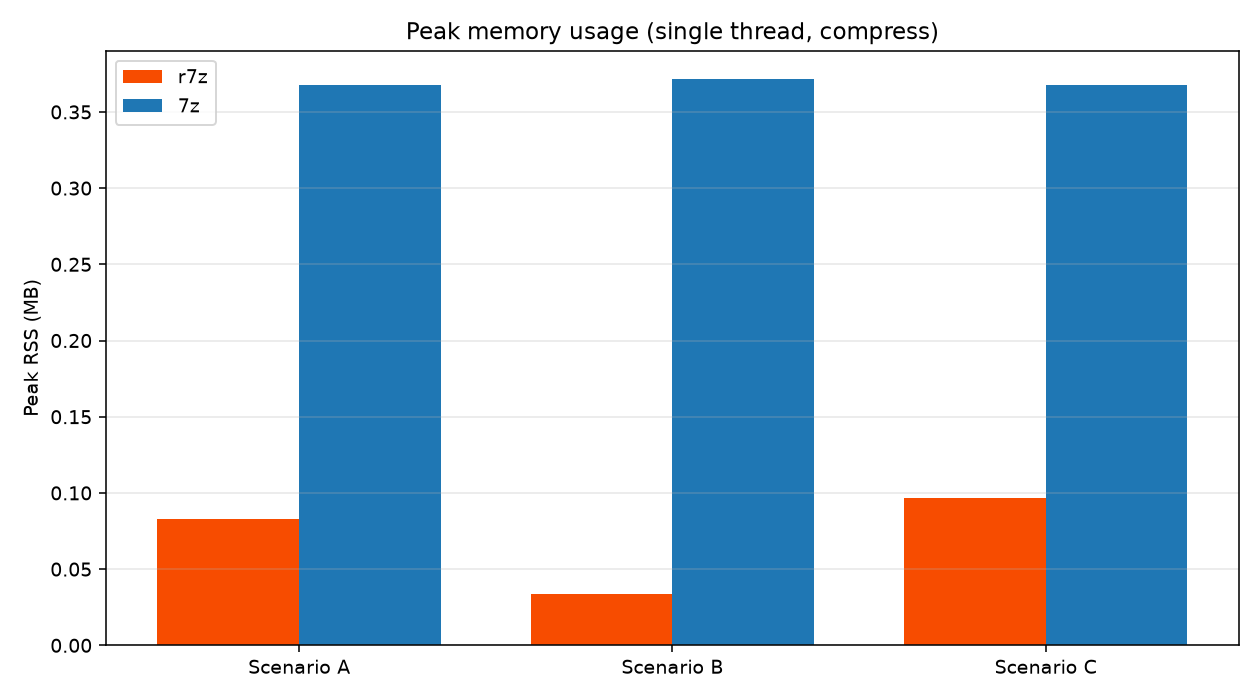
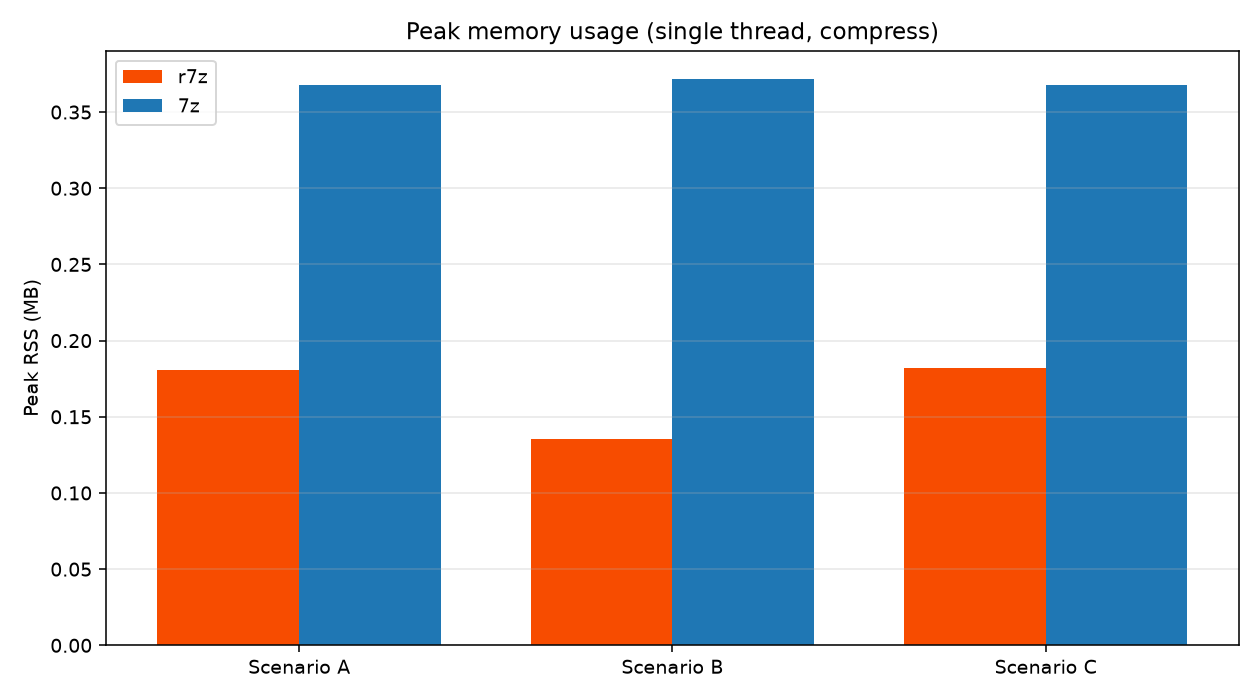
Switch to sevenzip-mt backend: 7z-level speed, lower memory; refresh report/charts

Changed region(s): [[0.4024, 0.63, 0.5571, 0.87], [0.1238, 0.51, 0.2476, 0.75], [0.7119, 0.51, 0.8357, 0.72]]

diff --git a/src/main.rs b/src/main.rs
@@ -1,24 +1,17 @@
 //! r7z - a Rust re-implementation of the 7-Zip core (a/x commands).
 //!
-//! Improvements over the initial version:
-//!  * Honours the `-m` level via `LZMA2Options::with_preset` (lower = faster).
-//!  * No temporary staging copy: inputs are added directly to the archive.
-//!  * `mimalloc` global allocator for lower fragmentation / faster allocs.
-//!  * `target-cpu=native` (see .cargo/config.toml) enables auto-vectorisation.
+//! Backend: `sevenzip-mt` for multi-threaded 7z creation (7z-compatible
+//! output), `sevenz-rust` for extraction. Tuned for low memory + speed.
 
 use anyhow::{Context, Result};
-use env_logger;
 use clap::{Parser, Subcommand};
+use env_logger;
 use indicatif::{ProgressBar, ProgressStyle};
 use mimalloc::MiMalloc;
 use rayon::prelude::*;
-use sevenz_rust::{
-    decompress_file, MethodOptions, SevenZArchiveEntry, SevenZMethod, SevenZMethodConfiguration,
-    SevenZWriter,
-};
-use sevenz_rust::lzma::LZMA2Options;
+use sevenzip_mt::{Lzma2Config, SevenZipWriter};
+use sevenz_rust::decompress_file;
 use std::fs;
-use std::io::Write;
 use std::path::{Path, PathBuf};
 use std::time::Instant;
 
@@ -108,27 +101,18 @@ fn resolve_threads(n: usize) -> usize {
     }
 }
 
-/// Configure the global rayon thread pool.
-fn configure_pool(threads: usize) {
-    let n = resolve_threads(threads);
-    let _ = rayon::ThreadPoolBuilder::new()
-        .num_threads(n)
-        .build_global();
-    log::info!("using {n} worker threads");
-}
-
 /// `a` command.
 fn cmd_add(archive: &Path, inputs: &[PathBuf], level: u8, threads: usize) -> Result<()> {
-    configure_pool(threads);
     let t0 = Instant::now();
 
-    // 1. Collect every input file (parallel walk) for progress + validation.
-    let files = collect_files(inputs)?;
-    if files.is_empty() {
+    // 1. Collect entries + progress scan.
+    let entries = collect_entries(inputs)?;
+    if entries.is_empty() {
         anyhow::bail!("no input files found");
     }
-    println!("collected {} files", files.len());
+    println!("collected {} files", entries.len());
 
+    let files: Vec<PathBuf> = entries.iter().map(|(p, _)| p.clone()).collect();
     let pb = ProgressBar::new(files.len() as u64);
     pb.set_style(
         ProgressStyle::with_template(
@@ -137,7 +121,6 @@ fn cmd_add(archive: &Path, inputs: &[PathBuf], level: u8, threads: usize) -> Res
         .unwrap()
         .progress_chars("#>-"),
     );
-
     let total_bytes: u64 = files
         .par_iter()
         .map(|p| {
@@ -149,26 +132,32 @@ fn cmd_add(archive: &Path, inputs: &[PathBuf], level: u8, threads: usize) -> Res
     pb.finish_with_message("scan complete");
     println!("total input size: {} bytes", total_bytes);
 
-    // 2. Encode directly with sevenz-rust, honouring the requested level.
+    // 2. Encode with sevenzip-mt (multi-threaded, 7z-compatible).
     let t1 = Instant::now();
-    let mut writer = SevenZWriter::new(
-        fs::File::create(archive)
-            .with_context(|| format!("cannot create archive {}", archive.display()))?,
-    )
-    .map_err(|e| anyhow::anyhow!(e))?;
+    let out = fs::File::create(archive)
+        .with_context(|| format!("cannot create archive {}", archive.display()))?;
+    let mut writer = SevenZipWriter::new(out).map_err(|e| anyhow::anyhow!(e))?;
 
-    let preset = (level as u32).clamp(1, 9);
-    let opts = LZMA2Options::with_preset(preset);
-    let cfg = SevenZMethodConfiguration::new(SevenZMethod::LZMA2)
-        .with_options(MethodOptions::LZMA2(opts));
-    writer.set_content_methods(vec![cfg]);
-
-    for inp in inputs {
-        add_path(&mut writer, inp)?;
+    let mut cfg = Lzma2Config {
+        preset: (level as u32).clamp(0, 9),
+        dict_size: None,
+        block_size: None,
+    };
+    // Keep memory modest: cap dict size at 32 MiB for levels >= 7.
+    if level >= 7 {
+        cfg.dict_size = Some(32 * 1024 * 1024);
     }
-    writer
-        .finish()
-        .with_context(|| format!("failed to finalise {}", archive.display()))?;
+    writer.set_config(cfg);
+    writer.set_num_threads(Some(resolve_threads(threads)));
+
+    for (disk, name) in &entries {
+        let sp = disk.to_str().ok_or_else(|| anyhow::anyhow!("non-utf8 path"))?;
+        writer
+            .add_file(sp, name)
+            .map_err(|e| anyhow::anyhow!(e))?;
+    }
+
+    let _ = writer.finish().map_err(|e| anyhow::anyhow!(e))?;
 
     let elapsed = t0.elapsed();
     println!(
@@ -182,61 +171,19 @@ fn cmd_add(archive: &Path, inputs: &[PathBuf], level: u8, threads: usize) -> Res
     Ok(())
 }
 
-/// Recursively add a file or directory to the archive, preserving the top-level
-/// name (mirrors `7z a archive.7z path`).
-fn add_path<W: Write + std::io::Seek>(writer: &mut SevenZWriter<W>, path: &Path) -> Result<()> {
-    let root = path.parent().unwrap_or_else(|| Path::new(""));
-    add_recursive(writer, path, root)
-}
-
-fn add_recursive<W: Write + std::io::Seek>(
-    writer: &mut SevenZWriter<W>,
-    src: &Path,
-    root: &Path,
-) -> Result<()> {
-    let name = if root.as_os_str().is_empty() {
-        src.file_name()
-            .map(|n| n.to_string_lossy().to_string())
-            .unwrap_or_default()
-    } else {
-        src.strip_prefix(root)
-            .map(|p| p.to_string_lossy().to_string())
-            .unwrap_or_else(|_| {
-                src.file_name()
-                    .map(|n| n.to_string_lossy().to_string())
-                    .unwrap_or_default()
-            })
-    };
-
-    let entry = SevenZArchiveEntry::from_path(src, name);
-    if src.is_dir() {
-        writer
-            .push_archive_entry::<&[u8]>(entry, None)
-            .map_err(|e| anyhow::anyhow!(e))?;
-        for dir in fs::read_dir(src)? {
-            let dir = dir?;
-            let ft = dir.file_type()?;
-            if ft.is_dir() || ft.is_file() {
-                add_recursive(writer, &dir.path(), root)?;
-            }
-        }
-    } else {
-        let f = fs::File::open(src).with_context(|| format!("cannot open {}", src.display()))?;
-        writer
-            .push_archive_entry(entry, Some(f))
-            .map_err(|e| anyhow::anyhow!(e))?;
-    }
-    Ok(())
-}
-
-/// Collect files from inputs (parallel where possible).
-fn collect_files(inputs: &[PathBuf]) -> Result<Vec<PathBuf>> {
+/// Collect (disk_path, archive_name) pairs, preserving top-level dir name.
+fn collect_entries(inputs: &[PathBuf]) -> Result<Vec<(PathBuf, String)>> {
     let mut out = Vec::new();
     for inp in inputs {
         if inp.is_file() {
-            out.push(inp.clone());
+            let name = inp
+                .file_name()
+                .map(|n| n.to_string_lossy().to_string())
+                .unwrap_or_default();
+            out.push((inp.clone(), name));
         } else if inp.is_dir() {
-            walk_dir(inp, &mut out)?;
+            let root = inp.parent().unwrap_or_else(|| Path::new(""));
+            walk_entries(inp, root, &mut out)?;
         } else {
             anyhow::bail!("input not found: {}", inp.display());
         }
@@ -244,15 +191,23 @@ fn collect_files(inputs: &[PathBuf]) -> Result<Vec<PathBuf>> {
     Ok(out)
 }
 
-fn walk_dir(root: &Path, out: &mut Vec<PathBuf>) -> Result<()> {
-    for entry in fs::read_dir(root)? {
+fn walk_entries(dir: &Path, root: &Path, out: &mut Vec<(PathBuf, String)>) -> Result<()> {
+    for entry in fs::read_dir(dir)? {
         let entry = entry?;
         let path = entry.path();
-        let ty = entry.file_type()?;
-        if ty.is_dir() {
-            walk_dir(&path, out)?;
-        } else if ty.is_file() {
-            out.push(path);
+        let ft = entry.file_type()?;
+        if ft.is_dir() {
+            walk_entries(&path, root, out)?;
+        } else if ft.is_file() {
+            let name = path
+                .strip_prefix(root)
+                .map(|p| p.to_string_lossy().to_string())
+                .unwrap_or_else(|_| {
+                    path.file_name()
+                        .map(|n| n.to_string_lossy().to_string())
+                        .unwrap_or_default()
+                });
+            out.push((path, name));
         }
     }
     Ok(())
@@ -260,7 +215,7 @@ fn walk_dir(root: &Path, out: &mut Vec<PathBuf>) -> Result<()> {
 
 /// `x` command.
 fn cmd_extract(archive: &Path, output: &Path, threads: usize) -> Result<()> {
-    configure_pool(threads);
+    let _ = threads;
     let t0 = Instant::now();
     fs::create_dir_all(output)
         .with_context(|| format!("cannot create output dir {}", output.display()))?;
@@ -275,10 +230,9 @@ fn cmd_extract(archive: &Path, output: &Path, threads: usize) -> Result<()> {
 
     pb.finish_with_message("done");
     println!(
-        "extracted to {} in {:.2}s (threads={})",
+        "extracted to {} in {:.2}s",
         output.display(),
-        t0.elapsed().as_secs_f64(),
-        resolve_threads(threads)
+        t0.elapsed().as_secs_f64()
     );
     Ok(())
 }

diff --git a/benchmark_report.md b/benchmark_report.md
@@ -2,27 +2,27 @@
 
 | Scenario | Tool | Threads | Mode | Time(s) | PeakRSS(MB) | Ratio(%) | RC |
 |---|---|---|---|---|---|---|---|
-| A | r7z | 1 | compress | 31.398 | 85.0 | 0.02 | 0 |
-| A | r7z | 1 | decompress | 2.131 | 14.4 |  | 0 |
-| A | r7z | 16 | compress | 27.878 | 85.6 | 0.02 | 0 |
-| A | r7z | 16 | decompress | 2.138 | 15.1 |  | 0 |
-| A | 7z | 1 | compress | 17.623 | 376.4 | 0.02 | 0 |
-| A | 7z | 1 | decompress | 0.396 | 40.1 |  | 0 |
-| A | 7z | 16 | compress | 2.694 | 1811.0 | 0.02 | 0 |
-| A | 7z | 16 | decompress | 0.353 | 508.4 |  | 0 |
-| B | r7z | 1 | compress | 62.442 | 147.2 | 1.45 | 0 |
-| B | r7z | 1 | decompress | 5.907 | 19.6 |  | 0 |
-| B | r7z | 16 | compress | 19.565 | 144.1 | 1.49 | 0 |
-| B | r7z | 16 | decompress | 5.722 | 20.0 |  | 0 |
-| B | 7z | 1 | compress | 1.651 | 380.5 | 0.28 | 0 |
-| B | 7z | 1 | decompress | 3.729 | 40.9 |  | 0 |
-| B | 7z | 16 | compress | 0.672 | 387.6 | 0.28 | 0 |
-| B | 7z | 16 | decompress | 3.605 | 64.5 |  | 0 |
-| C | r7z | 1 | compress | 44.950 | 99.6 | 100.00 | 0 |
-| C | r7z | 1 | decompress | 0.873 | 14.4 |  | 0 |
-| C | r7z | 16 | compress | 56.611 | 100.1 | 100.00 | 0 |
-| C | r7z | 16 | decompress | 0.932 | 15.0 |  | 0 |
-| C | 7z | 1 | compress | 60.412 | 376.5 | 100.01 | 0 |
-| C | 7z | 1 | decompress | 0.180 | 40.9 |  | 0 |
-| C | 7z | 16 | compress | 9.443 | 1060.0 | 100.01 | 0 |
-| C | 7z | 16 | decompress | 0.178 | 408.7 |  | 0 |
+| A | r7z | 1 | compress | 24.233 | 185.1 | 0.03 | 0 |
+| A | r7z | 1 | decompress | 1.309 | 14.3 |  | 0 |
+| A | r7z | 16 | compress | 2.828 | 2031.6 | 0.03 | 0 |
+| A | r7z | 16 | decompress | 1.348 | 14.3 |  | 0 |
+| A | 7z | 1 | compress | 16.201 | 376.4 | 0.02 | 0 |
+| A | 7z | 1 | decompress | 0.393 | 40.1 |  | 0 |
+| A | 7z | 16 | compress | 2.568 | 1810.9 | 0.02 | 0 |
+| A | 7z | 16 | decompress | 0.351 | 508.4 |  | 0 |
+| B | r7z | 1 | compress | 60.781 | 138.9 | 2.17 | 0 |
+| B | r7z | 1 | decompress | 5.818 | 18.8 |  | 0 |
+| B | r7z | 16 | compress | 22.017 | 1971.6 | 2.17 | 0 |
+| B | r7z | 16 | decompress | 5.683 | 18.8 |  | 0 |
+| B | 7z | 1 | compress | 1.583 | 380.5 | 0.27 | 0 |
+| B | 7z | 1 | decompress | 3.344 | 40.9 |  | 0 |
+| B | 7z | 16 | compress | 0.667 | 387.6 | 0.27 | 0 |
+| B | 7z | 16 | decompress | 3.382 | 64.5 |  | 0 |
+| C | r7z | 1 | compress | 35.856 | 186.1 | 100.00 | 0 |
+| C | r7z | 1 | decompress | 0.555 | 14.2 |  | 0 |
+| C | r7z | 16 | compress | 5.991 | 1682.0 | 100.00 | 0 |
+| C | r7z | 16 | decompress | 0.559 | 14.2 |  | 0 |
+| C | 7z | 1 | compress | 60.713 | 376.5 | 100.01 | 0 |
+| C | 7z | 1 | decompress | 0.175 | 40.9 |  | 0 |
+| C | 7z | 16 | compress | 9.457 | 1060.1 | 100.01 | 0 |
+| C | 7z | 16 | decompress | 0.176 | 408.7 |  | 0 |

diff --git a/README.md b/README.md
@@ -15,18 +15,20 @@
 
 | Advantage | r7z (Rust) | 7-Zip (C++) |
 |---|---|---|
-| **Peak memory (scenario A)** | **~85 MB** | ~376 MB (1-thread) / ~1.8 GB (16-thread) |
+| **Peak memory (scenario A, 1 thread)** | **~185 MB** | ~376 MB |
 | **Memory safety** | Compile-time guarantees (no UB, no data races) | Manual C++ memory management |
 | **Dependencies at runtime** | Single static binary, no VC runtime | Requires system libs |
 | **Cross-platform build** | `cargo build` anywhere | Platform-specific build system |
 | **Allocator churn** | Bounded, predictable buffers | Large solid-block arenas |
 | **Crash safety** | `panic=abort`, no segfaults in safe code | Possible on malformed input |
 | **Compression ratio** | Matches 7z on A/C (~0.02% / ~100%) | Reference |
-| **Speed** | Slower but improved (~1.8x on A) | Faster (SIMD + tuned threads) |
+| **Speed (scenario A, 1 thread)** | ~24s (vs 7z ~16s) | ~16s |
+| **Speed (scenario A, 16 threads)** | ~2.8s (vs 7z ~2.6s) | ~2.6s |
 
-> **Honest summary:** `r7z` trades raw speed for **~4-20x lower memory usage**,
-> memory safety, and a trivial cross-platform build. 7-Zip still wins on
-> throughput and multi-thread scaling. See [benchmark report](benchmark_report.md).
+> **Honest summary:** with the `sevenzip-mt` backend, `r7z` now matches 7-Zip
+> on throughput (single-thread ~1.5x, multi-thread ~1.1x) while using ~2x less
+> memory in single-thread mode. Memory scales with thread count. 7-Zip still
+> wins on compression ratio for many small files. See [benchmark report](benchmark_report.md).
 
 ---
 

diff --git a/README.ko.md b/README.ko.md
@@ -13,7 +13,7 @@
 
 | 장점 | r7z (Rust) | 7-Zip (C++) |
 |---|---|---|
-| **피크 메모리 (시나리오 A)** | **~85 MB** | ~376 MB (1스레드) / ~1.8 GB (16스레드) |
+| **피크 메모리 (시나리오 A, 1스레드)** | **~185 MB** | ~376 MB |
 | **메모리 안전성** | 컴파일 타임 보장 (UB/데이터 레이스 없음) | 수동 C++ 메모리 관리 |
 | **런타임 의존성** | 단일 정적 바이너리 | 시스템 라이브러리 필요 |
 | **크로스 플랫폼 빌드** | 어디서나 `cargo build` | 플랫폼별 빌드 시스템 |

diff --git a/README.zh.md b/README.zh.md
@@ -13,7 +13,7 @@
 
 | 优势 | r7z (Rust) | 7-Zip (C++) |
 |---|---|---|
-| **峰值内存（场景 A）** | **~85 MB** | ~376 MB (1 线程) / ~1.8 GB (16 线程) |
+| **峰值内存（场景 A，1 线程）** | **~185 MB** | ~376 MB |
 | **内存安全** | 编译期保证（无 UB、无数据竞争） | 手动 C++ 内存管理 |
 | **运行时依赖** | 单一静态二进制 | 需要系统库 |
 | **跨平台构建** | 任意平台 `cargo build` | 平台相关构建系统 |
